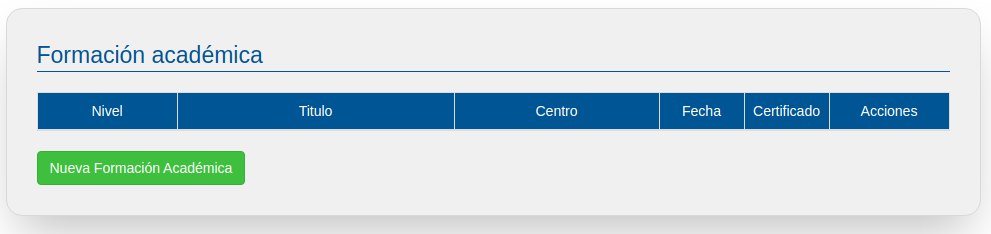
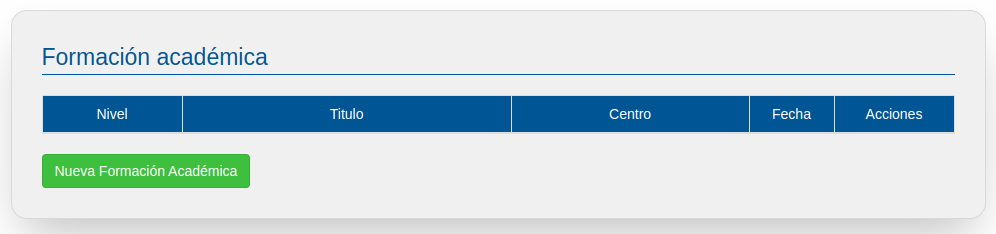
feat(#264):No mostrar la certificación a los titulados

diff --git a/web/titulado/views/curriculum/formacionacademica/search.html b/web/titulado/views/curriculum/formacionacademica/search.html
@@ -27,7 +27,6 @@ along with this program.  If not, see http://www.gnu.org/licenses/
                         <th style="width:      50%;text-align: center">Titulo</th>
                         <th style="width:      35%;text-align: center">Centro</th>
                         <th style="min-width:85px;text-align: center">Fecha</th>
-                        <th style="min-width:85px;text-align: center" title="Indica si el centro donde has estudiado certifica que tienes el t&iacute;tulo">Certificado</th>
                         <th style="min-width:120px;text-align: center">Acciones</th>
                     </tr>
                 </thead>
@@ -37,7 +36,6 @@ along with this program.  If not, see http://www.gnu.org/licenses/
                         <td >{{formacionAcademica.getNombreTitulo()}}</td>
                         <td >{{formacionAcademica.getNombreCentro()}}</td>
                         <td >{{formacionAcademica.fecha| ix3Date}}</td> 
-                        <td style="text-align: center" ><img ng-show="formacionAcademica.certificadoTitulo" title="El centro donde has estudiado ha certificado que tienes el t&iacute;tulo" ng-src="{{getContextPath()}}/img/award/award-24x24.png"></td>
                         <td >
                             <button class="btn btn-xs form__button form__button--danger" type="button" ng-click="buttonDelete(formacionAcademica.idFormacionAcademica)">Borrar</button>
                             <button class="btn btn-xs form__button form__button--default" type="button" ng-click="buttonEdit(formacionAcademica.idFormacionAcademica)">Editar</button>

diff --git a/web/titulado/views/curriculum/formacionacademica/detail.html b/web/titulado/views/curriculum/formacionacademica/detail.html
@@ -22,7 +22,6 @@ along with this program.  If not, see http://www.gnu.org/licenses/
             <ix3-business-messages></ix3-business-messages>
             <form class="form-horizontal" name="mainForm" id="mainForm"  ix3-form>
                 <fieldset>
-                    <legend class="form__title"><img ng-show="model.certificadoTitulo" title="El centro donde has estudiado ha certificado que tienes el t&iacute;tulo" src="{{getContextPath()}}/img/award/award-32x32.png">&nbsp;Formaci&oacute;n académica</legend>
                     <div class="form-group">
                         <label for="model.tipoFormacionAcademica" class="col-sm-3  control-label" ix3-label ></label>
                         <div class="col-sm-3">

diff --git a/web/manuales/titulado/formacion_academica.md b/web/manuales/titulado/formacion_academica.md
@@ -22,4 +22,3 @@ Volverás a la pantalla anterior donde se mostrará la nueva formación académi
 
 ![](formacion_academica_search.png)
 
-Verás que hay una columna llamada "Certificado". Cuando tu centro certifique que tienes el título, aparecerá rellenada. 
